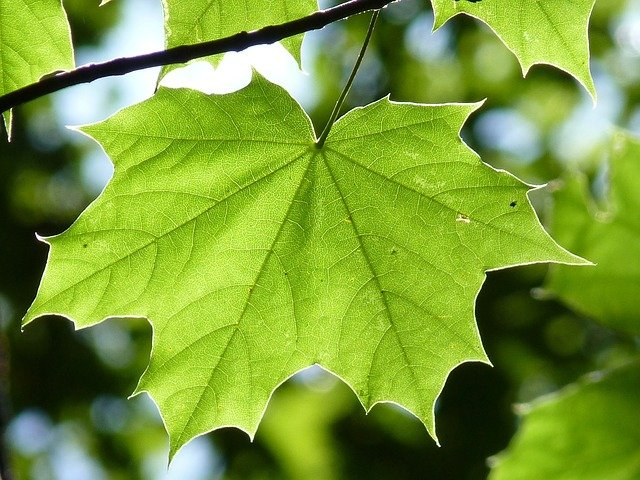
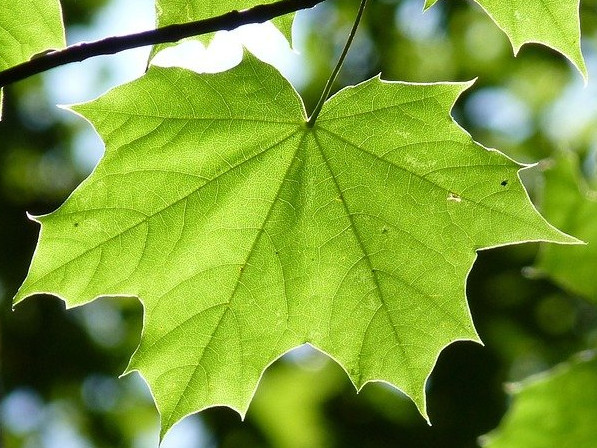
Fixed wrong thumbnail generation and replaced default thumbnail

diff --git a/javorka/style.css b/javorka/style.css
@@ -47,33 +47,33 @@ main#theme-main {
 	padding: 20px;
 }
 
-#theme-main .container h1 {
+body h1 {
 	font-size: 33px;
 	line-height: 57px;
 	margin-bottom: 32px;
 }
 
-#theme-main .container .title {
+body .title {
 	font-size: 42px;
 	line-height: 70px;
 	margin-bottom: 32px;
 }
 
-#theme-main .container h2 {
+body h2 {
 	font-size: 26px;
 	line-height: 47px;
 	/* margin-top: 52px; */
 	margin-bottom: 20px;
 }
 
-#theme-main .container h3 {
+body h3 {
 	font-size: 20px;
 	line-height: 38px;
 	/* margin-top: 32px; */
 	margin-bottom: 13px;
 }
 
-#theme-main .container h4 {
+body h4 {
 	font-size: 16px;
 	line-height: 32px;
   font-weight: bold;

diff --git a/javorka/front-page.php b/javorka/front-page.php
@@ -48,8 +48,11 @@
               <a href="<?php the_permalink() ?>" target="_self" title="<?php _e( 'Čítaj ďalej článok ', 'javorka' ) . the_title(); ?>">
                 <?php 
                   if (has_post_thumbnail()): 
-                    the_post_thumbnail();
-                  else: 
+                    $image_arr = wp_get_attachment_image_src(get_post_thumbnail_id(get_the_ID()), 'full');
+                    ?>
+                      <img src="<?php echo $image_arr[0] ?>" class="card-img-top" alt="<?php the_title(); ?>">
+                    <?php
+                  else:
                 ?>
                   <img src="<?php echo get_stylesheet_directory_uri() . '/assets/images/thumbnail-default.jpg' ?>" class="card-img-top" alt="<?php the_title(); ?>">
                 <?php endif; ?>   
